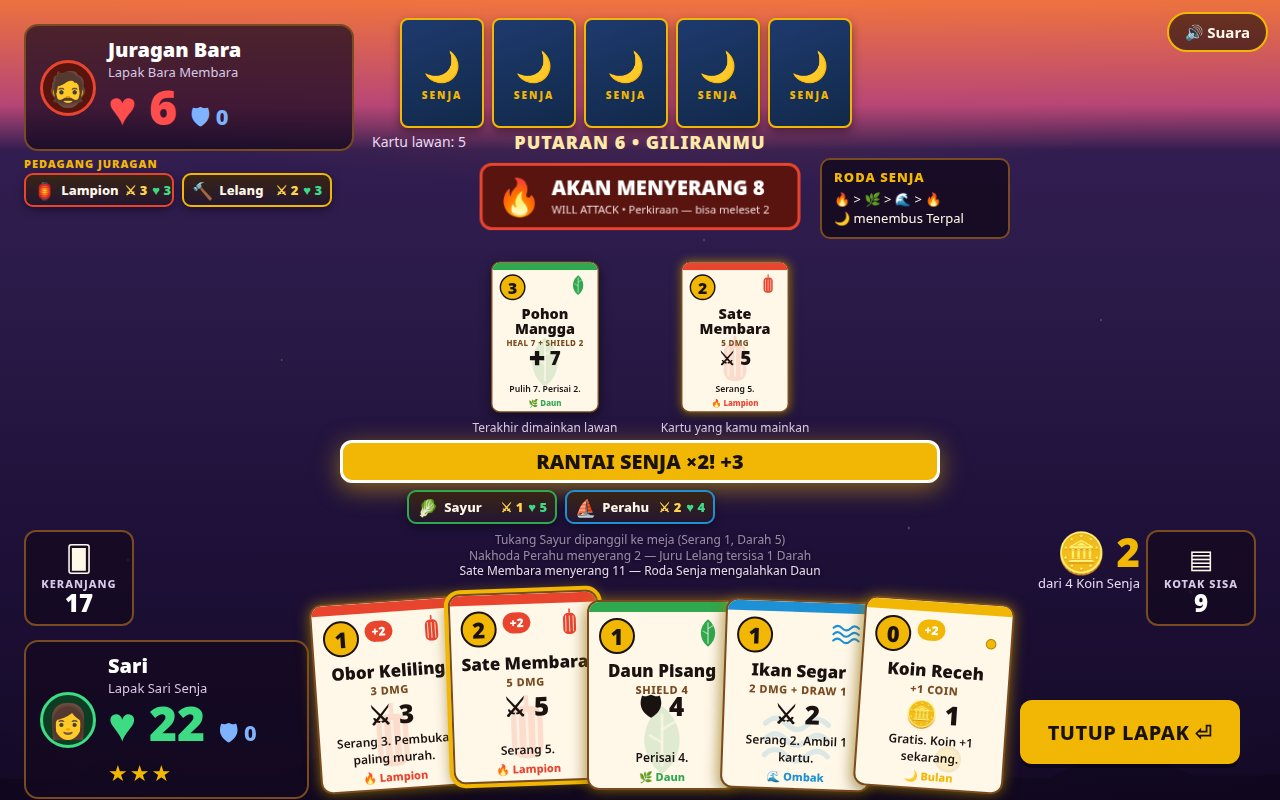
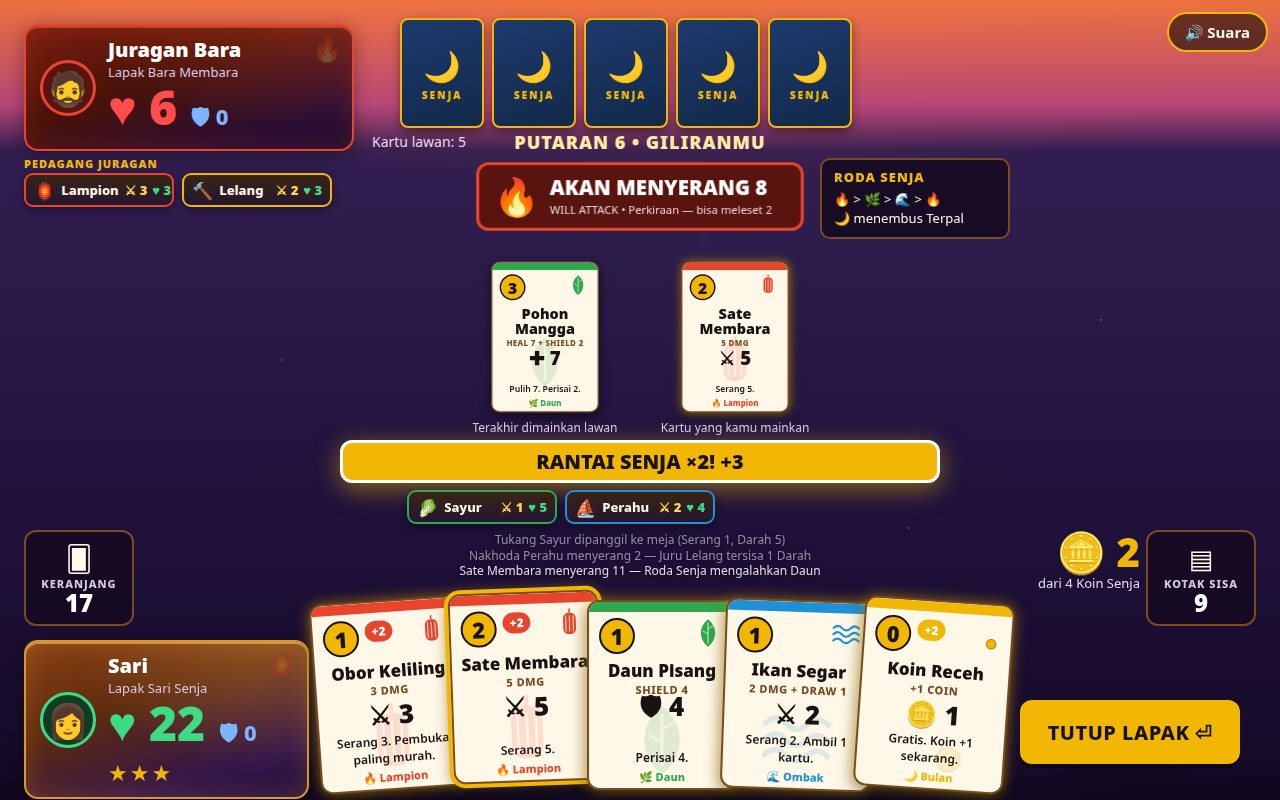
Senja di Pasar v3.4 — Background kotak panel hero lebih mewah (make.fun best card game)

Changed region(s): [[0.0, 0.7812, 0.25, 1.0], [0.0, 0.0312, 0.2812, 0.1875], [0.3438, 0.1875, 0.6562, 0.3125]]

diff --git a/game/css/style.css b/game/css/style.css
@@ -225,6 +225,36 @@ button:disabled { opacity: .5; cursor: default; }
 .player-info .side-life { color: #3DDC84; }
 .side-shield { font-size: 22px; font-weight: 800; color: #7FB3FF; }
 .player-stars { font-size: 22px; color: #F2B705; letter-spacing: 2px; margin-top: 2px; }
+/* v3.4: background kotak panel hero — gradasi hangat + glow + garis emas
+   tipis. Ukuran/posisi panel TIDAK berubah (border tetap 2px, shadow &
+   ::before tidak memengaruhi layout). Teks/angka tidak diubah warnanya. */
+.player-info {
+  background:
+    radial-gradient(130% 150% at 88% 0%, rgba(255,176,74,.30), rgba(255,176,74,0) 55%),
+    linear-gradient(160deg, #8A4212 0%, #5E2A10 38%, #33164A 78%, #22103C 100%);
+  border-color: #D99A2B;
+  box-shadow: inset 0 2px 0 rgba(255,205,110,.55), inset 0 0 26px rgba(255,150,60,.22), 0 4px 18px rgba(0,0,0,.35);
+}
+/* Lampion samar di sudut kanan atas panel Sari — sudut itu kosong
+   (nama "Sari" pendek, teks tidak sampai ke tepi kanan). */
+.player-info::before {
+  content: "🏮";
+  position: absolute; right: 10px; top: 6px;
+  font-size: 24px; opacity: .22; pointer-events: none;
+}
+.enemy-info {
+  background:
+    radial-gradient(130% 150% at 88% 0%, rgba(255,90,50,.26), rgba(255,90,50,0) 55%),
+    linear-gradient(160deg, #7E1F10 0%, #4A1208 40%, #2A0E33 80%, #1E0E2E 100%);
+  border-color: #E8442E;
+  box-shadow: inset 0 2px 0 rgba(255,120,80,.45), inset 0 0 26px rgba(255,70,40,.18), 0 4px 18px rgba(0,0,0,.35);
+}
+/* Api samar di sudut kanan atas panel Juragan — simetri dengan Sari. */
+.enemy-info::before {
+  content: "🔥";
+  position: absolute; right: 10px; top: 6px;
+  font-size: 24px; opacity: .20; pointer-events: none;
+}
 
 .enemy-hand {
   position: absolute; left: 400px; top: 18px;
